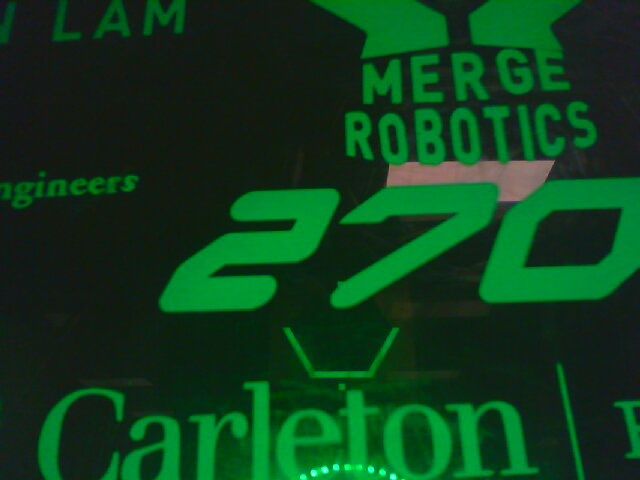
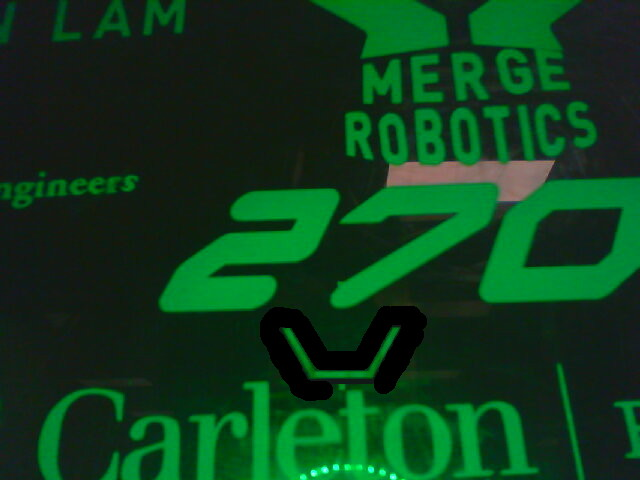
Task I and Problem images

Changed region(s): [[0.4062, 0.625, 0.6875, 0.8438]]

diff --git a/TaskCode/TaskI_-_OuterTarget-Visual4.py b/TaskCode/TaskI_-_OuterTarget-Visual4.py
@@ -42,6 +42,8 @@ black = (0, 0, 0)
 white = (252, 252, 252)
 orange = (3, 64, 252) 
 
+minAreaContour = 200
+
 # from https://stackoverflow.com/questions/41462419/python-slope-given-two-points-find-the-slope-answer-works-doesnt-work/41462583
 def get_slope(x1, y1, x2, y2):
     return (y2-y1)/(x2-x1) 
@@ -64,7 +66,7 @@ strImageFolder = str(strVisionRoot / 'OuterTargetFullScale')
 #strImageFolder = str(strVisionRoot / 'OuterTargetImages')
 #strImageFolder = str(strVisionRoot / 'OuterTargetLiger')
 #strImageFolder = str(strVisionRoot / 'OuterTargetRingTest')
-#strImageFolder = str(strVisionRoot / 'OuterTargetProblems')
+strImageFolder = str(strVisionRoot / 'OuterTargetProblems')
 
 print (strImageFolder)
 booBlankUpper = False
@@ -83,7 +85,7 @@ else:
 print (photos)
 
 # set index of files
-i = 1
+i = 4
 intLastFile = len(photos) -1
 
 # begin main loop indent 1
@@ -134,23 +136,73 @@ while (True):
     imgFindContourReturn, contours, hierarchy = cv2.findContours(binary_mask, cv2.RETR_TREE, cv2.CHAIN_APPROX_SIMPLE)
     imgContours = green_mask.copy()
 
-    cv2.drawContours(imgContours, contours, -1, yellow, 1)
+    # sort contours by area descending
+    initialSortedContours = sorted(contours, key = cv2.contourArea, reverse = True)[:15]
+
+    cv2.drawContours(imgContours, initialSortedContours, -1, yellow, 1)
     print('Found ', len(contours), 'contours in image')
     #print (contours)
 
-    # sort contours by area descending
-    initialSortedContours = sorted(contours, key = cv2.contourArea, reverse = True)[:3]
+    initialFilteredContours = []
 
     if initialSortedContours:
 
-        cnt = initialSortedContours[0]
+        for (j, indiv) in enumerate(initialSortedContours):
+
+            print('indiv', j)
+
+            # Area
+            area = cv2.contourArea(indiv)
+            print('area = ', area)
+            if area < minAreaContour: continue
+
+            # rotated rectangle
+            rect = cv2.minAreaRect(indiv)
+            print('rotated rectangle = ',rect)
+            (xr,yr),(wr,hr),ar = rect
+            #### more research https://stackoverflow.com/questions/15956124/minarearect-angles-unsure-about-the-angle-returned
+            if hr > wr:
+                ar = ar + 90
+                wr, hr = [hr, wr]
+            else:
+                ar = ar + 180
+            if ar == 180:
+                ar = 0
+
+            box = cv2.boxPoints(rect)
+            box = np.int0(box)
+            cv2.drawContours(imgContours,[box],0,blue,2)
+            minAAspect = float(wr)/hr
+            minAextent = float(area)/(wr*hr) 
+            print('minimum area rectangle aspect = ', minAAspect)
+            print('minimum area rectangle extent = ', minAextent)
+
+            if (minAextent < 0.16 or minAextent > 0.26): continue
+            if (minAAspect < 2.0 or minAAspect > 3.0): continue
+
+            # Hull
+            hull = cv2.convexHull(indiv)
+            #cv2.drawContours(imgContours, [hull], -1, orange, 5)
+            #cv2.imshow('hull over green mask', imgContours)
+            hull_area = cv2.contourArea(hull)
+            print('area of convex hull',hull_area)
+            solidity = float(area)/hull_area
+            print('solidity from convex hull', float(area)/hull_area)
+
+            if (solidity < 0.22 or solidity > 0.30): continue
+
+            initialFilteredContours.append(indiv)
+
+    if initialFilteredContours:
+
+        cnt = initialFilteredContours[0]
         print('original contour length = ', len(cnt))
         cv2.drawContours(imgContours, [cnt], -1, purple, 3)
 
         # Area
         area = cv2.contourArea(cnt)
         print('area = ', area)
-
+        
         # Perimeter
         perimeter = cv2.arcLength(cnt,True)
         print('perimeter = ', perimeter)
@@ -174,7 +226,7 @@ while (True):
         brect = (xb,yb,wb,hb)
         #cv2.rectangle(imgContours,(xb,yb),(xb+wb,yb+hb),green,2)
         print('bounding rectangle aspect = ', float(wb)/float(hb))
-        print('bounding rectangle extend = ', float(area)/(float(wb)*float(hb)))
+        print('bounding rectangle extent = ', float(area)/(float(wb)*float(hb)))
 
         # rotated rectangle
         rect = cv2.minAreaRect(cnt)
